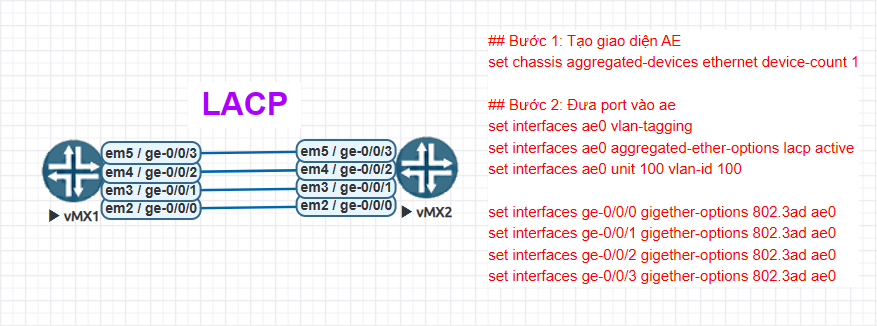
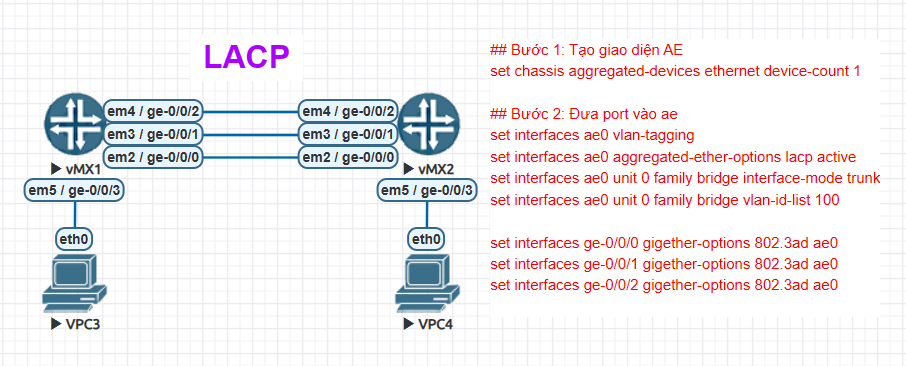
update jn0_lag

diff --git a/pages/JN0/jn0_lag.md b/pages/JN0/jn0_lag.md
@@ -6,7 +6,7 @@ permalink: jn0_lag.html
 folder: JN0
 ---
 
-![](img/17.png)
+![](image.png)
 
 ## Bước 1: Tạo giao diện Aggregated Ethernet (AE)
 
@@ -35,12 +35,12 @@ ae0                     up    down
 
 set interfaces ae0 vlan-tagging
 set interfaces ae0 aggregated-ether-options lacp active
-set interfaces ae0 unit 100 vlan-id 100
+set interfaces ae0 unit 0 family bridge interface-mode trunk
+set interfaces ae0 unit 0 family bridge vlan-id-list 100
 
 set interfaces ge-0/0/0 gigether-options 802.3ad ae0
 set interfaces ge-0/0/1 gigether-options 802.3ad ae0
 set interfaces ge-0/0/2 gigether-options 802.3ad ae0
-set interfaces ge-0/0/3 gigether-options 802.3ad ae0
 ```
 
 ## Kiểm tra
